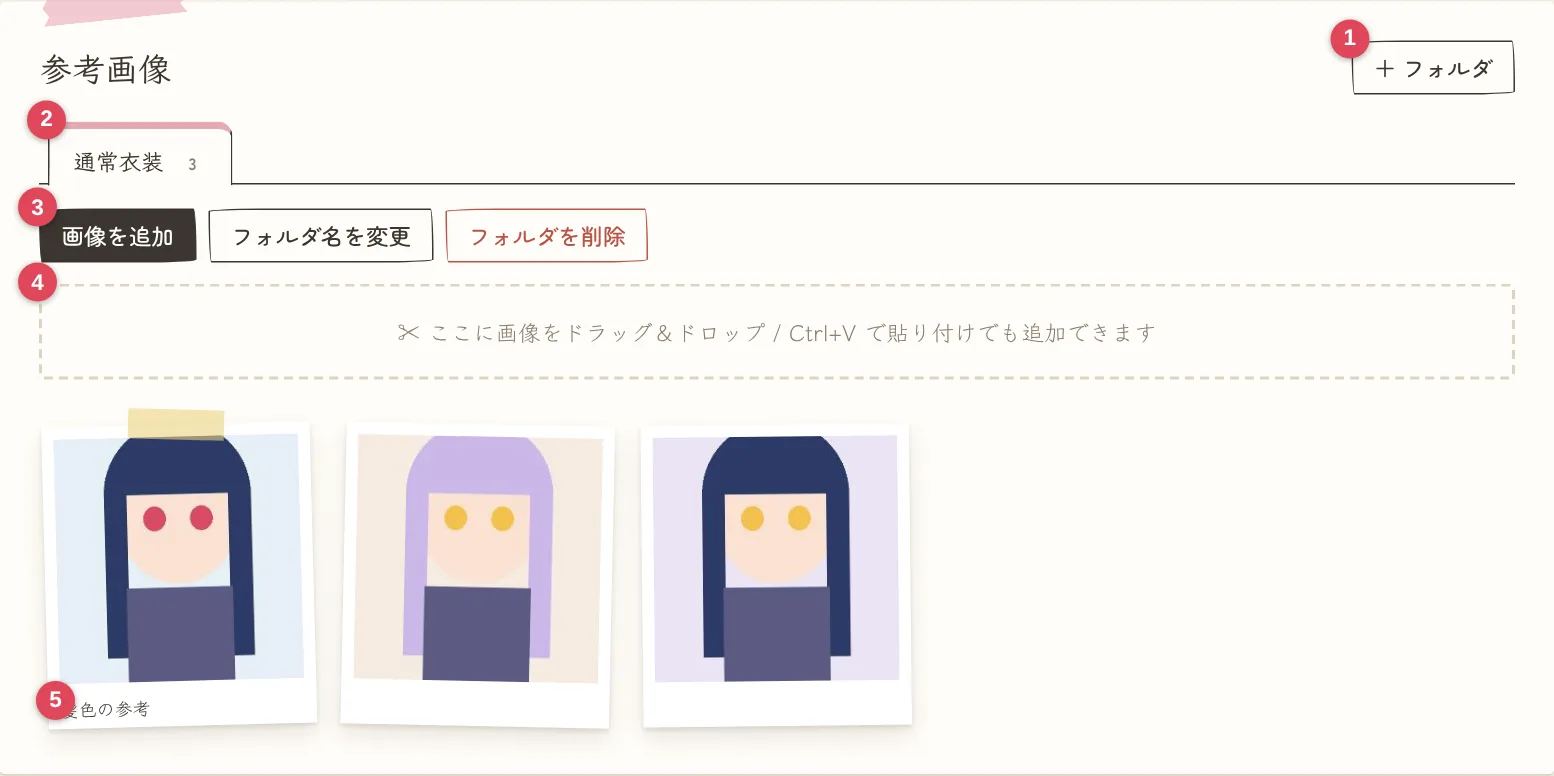
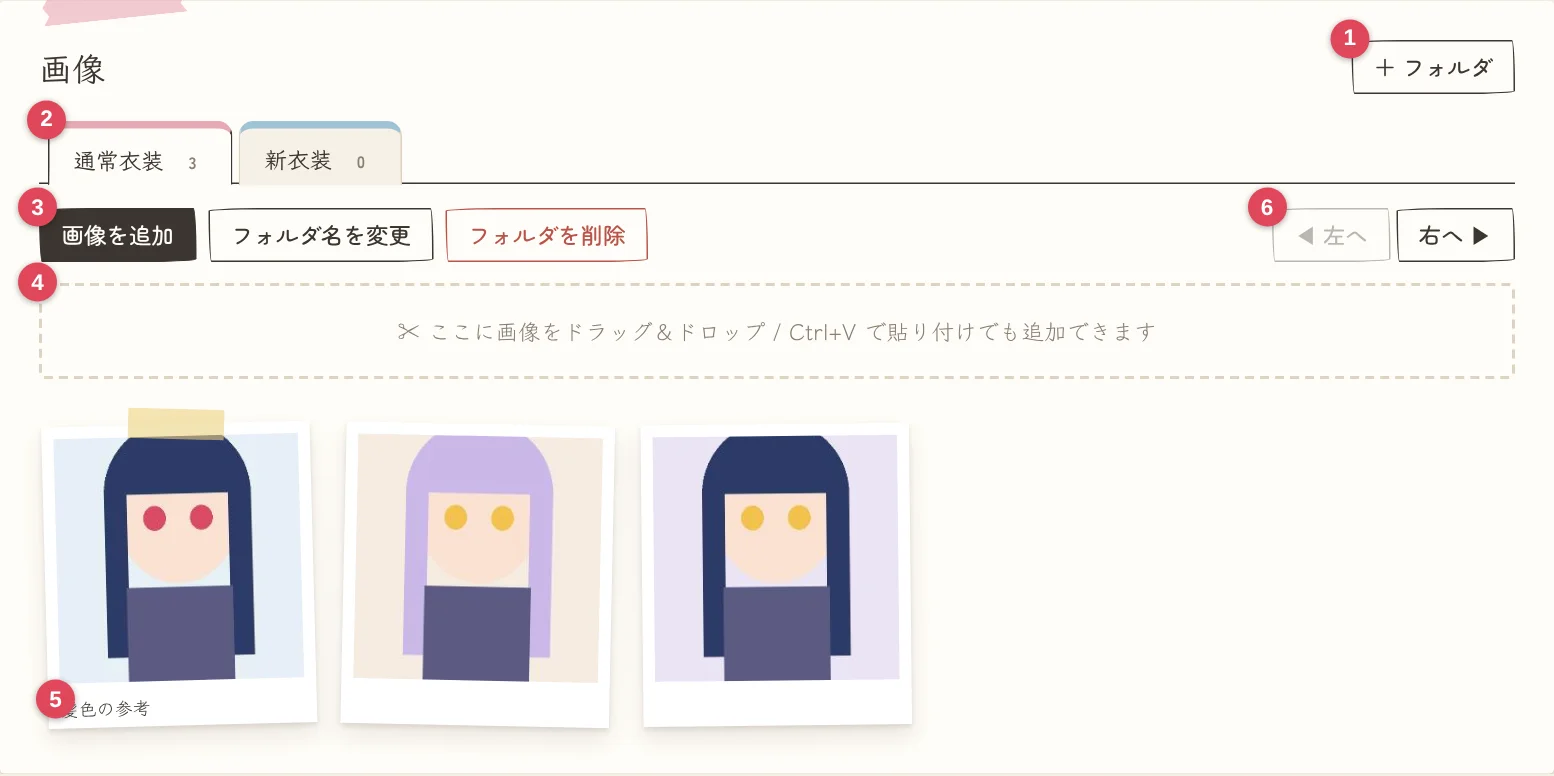
マニュアルを更新: 投稿テンプレートの複数登録、フォルダの並べ替え、項目名ファンアート、写真の撮り直し
Claude-Session: https://claude.ai/code/session_01TtRufu2XhManK9q9q8tut5

diff --git a/manual.html b/manual.html
@@ -169,10 +169,10 @@
       <p>「編集」→「＋ リンクを追加」で、YouTube や X などの URL をいくつでも登録できます。名前を空にすると「YouTube」「X」などが自動で付きます。推しのページで押すと、そのページが開きます。</p>
 
       <h3>X に投稿</h3>
-      <p>推しのページの「𝕏 で投稿」を押すと、ファンアートタグが入った X の投稿画面が開きます。文章は「⚙ 項目・設定」の投稿テンプレートで変えられます。</p>
+      <p>推しのページの「𝕏 で投稿」を押すと、投稿テンプレートの文章が入った X の投稿画面が表示されます。テンプレートが2つ以上あるときはどれで投稿するか選択できます。文章は「⚙ 項目・設定」の投稿テンプレートで変えられます。</p>
       <ul>
         <li>画像は、X の投稿画面で自分で選んでください</li>
-        <li>「「ファンアートタグ」が未登録です」と出たら、その推しのファンアートタグを登録してください</li>
+        <li>「「ファンアート」が未登録です」と出たら、その推しのファンアートを登録してください</li>
       </ul>
     </section>
 
@@ -189,6 +189,7 @@
           <tr><td>3</td><td>画像を追加</td><td>画像を選んで保存（複数枚まとめて OK）。横のボタンでフォルダ名の変更・削除（削除すると中の画像も消えます）</td></tr>
           <tr><td>4</td><td>画像を置く場所</td><td>PC は画像をドラッグ＆ドロップ、または <code>Ctrl + V</code> で貼り付けても追加できます</td></tr>
           <tr><td>5</td><td>ひとことメモ</td><td>画像の下に表示（書き方は下の拡大表示で）</td></tr>
+          <tr><td>6</td><td>◀ 左へ / 右へ ▶</td><td>選んでいるフォルダは「◀ 左へ」「右へ ▶」で並べ替えられます</td></tr>
         </table>
       </div>
       <p>画像の右下の ✕ で、その画像を削除できます。</p>
@@ -226,7 +227,7 @@
       <p>下に進むと、投稿テンプレート・バックアップ・保存についてがあります。</p>
       <figure><img src="manual/settings-bottom.webp" alt="項目・設定の画面（下のほう）" loading="lazy" class="narrow"></figure>
       <ul>
-        <li><b>投稿テンプレート</b>：「𝕏 で投稿」の文章です。<code>{項目名}</code> の部分にその推しの登録内容が入ります。例：<code>{名前}さんのファンアートを描きました！ {ファンアートタグ}</code></li>
+        <li><b>投稿テンプレート</b>：「𝕏 で投稿」の文章です。<code>{項目名}</code> の部分にその推しの登録内容が入ります。例：<code>{名前}さんのファンアートを描きました！ {ファンアート}</code>。「＋ テンプレートを追加」で何個でも登録でき、↑↓で並べ替え、✕で削除できます</li>
         <li><b>バックアップ</b>：書き出しと読み込み（<a href="#backup">次の章</a>で説明）</li>
         <li><b>保存について</b>：使っている容量、ブラウザによる自動削除の防止が ON か、最後にバックアップした日</li>
       </ul>
